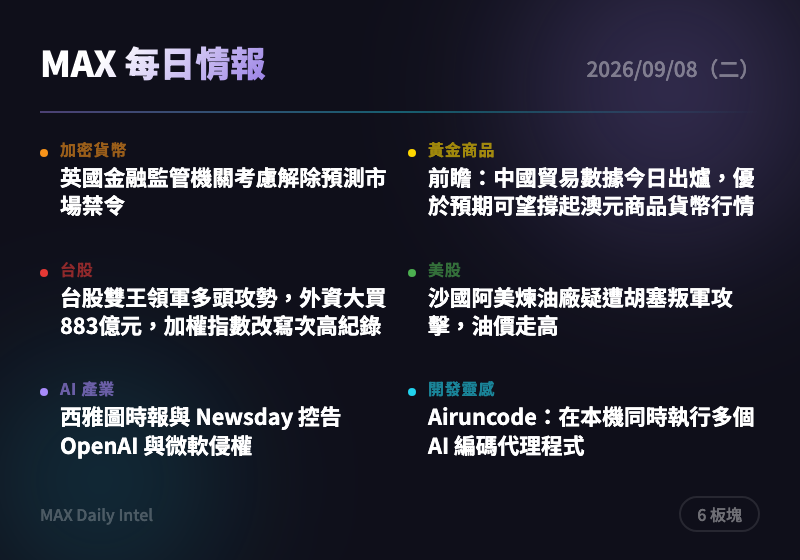
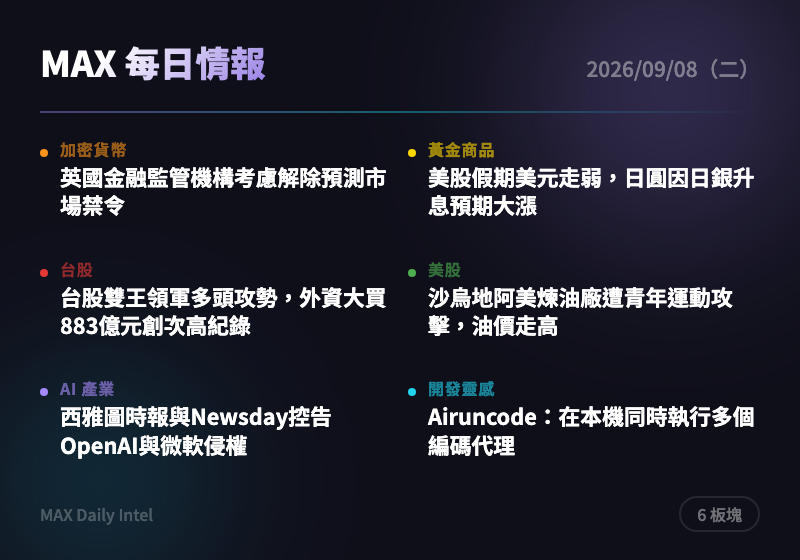
intel: 2026-09-08 每日情報自動生成

diff --git a/docs/2026-09-08.html b/docs/2026-09-08.html
@@ -318,15 +318,15 @@
     </div>
     <div class="news-card">
       <div class="source">CoinTelegraph</div>
-      <h3><a href="https://cointelegraph.com/news/uk-financial-watchdog-prediction-markets-ban?utm_source=rss_feed&utm_medium=rss&utm_campaign=rss_partner_inbound" target="_blank" rel="noopener">英國金融監管機關考慮解除預測市場禁令</a></h3>
-      <div class="summary">英國 FCA 正評估解除自 2019 年起針對零售投資人二元期權類預測市場產品的銷售禁令。若成真將為英國市場開放新型金融衍生商品通路，對相關平台業者是政策面利多，但也可能引發散戶保護爭議。建議關注 FCA 正式公告時程及後續配套監管細則。</div>
-      <div class="tags"><span class="tag">監管政策</span><span class="tag">英國</span><span class="tag">預測市場</span></div>
+      <h3><a href="https://cointelegraph.com/news/uk-financial-watchdog-prediction-markets-ban?utm_source=rss_feed&utm_medium=rss&utm_campaign=rss_partner_inbound" target="_blank" rel="noopener">英國金融監管機構考慮解除預測市場禁令</a></h3>
+      <div class="summary">英國金融行為監管局（FCA）自2019年起禁止散戶交易二元期權類產品，如今傳出考慮鬆綁預測市場相關限制。此舉若成真將為英國散戶開啟新的另類投資管道，也可能帶動相關平台估值重估。建議留意後續正式公告與監管細則。</div>
+      <div class="tags"><span class="tag">監管</span><span class="tag">英國</span><span class="tag">預測市場</span><span class="tag">金融政策</span></div>
     </div>
     <div class="news-card">
       <div class="source">CoinTelegraph</div>
-      <h3><a href="https://cointelegraph.com/news/ethereum-foundation-names-2-must-ship-eips-for-hegot-upgrade?utm_source=rss_feed&utm_medium=rss&utm_campaign=rss_partner_inbound" target="_blank" rel="noopener">以太坊基金會鎖定 Hegotá 升級兩項「必上」EIP</a></h3>
-      <div class="summary">以太坊基金會宣布 Hegotá 升級將以 FOCIL 與 Frame Transactions 兩項提案為核心，開發者仍在權衡數十項候選改動是否納入。此舉攸關以太坊抗審查能力與交易架構的長期路線圖，是判斷 ETH 基本面演進速度的重要指標。可留意後續開發者會議是否鎖定升級時程，作為布局 ETH 相關部位的參考。</div>
-      <div class="tags"><span class="tag">以太坊</span><span class="tag">區塊鏈升級</span><span class="tag">去中心化</span></div>
+      <h3><a href="https://cointelegraph.com/news/ethereum-foundation-names-2-must-ship-eips-for-hegot-upgrade?utm_source=rss_feed&utm_medium=rss&utm_campaign=rss_partner_inbound" target="_blank" rel="noopener">以太坊基金會敲定 Hegotá 升級兩項『必上』EIP</a></h3>
+      <div class="summary">以太坊基金會確認 FOCIL 與 Frame Transactions 為 Hegotá 升級的兩大核心提案，其餘數十項提案仍在討論是否納入。這決定了以太坊下一階段的技術路線與去中心化程度，牽動長期基本面。建議關注升級時程與相關 L2、驗證者生態的資金布局機會。</div>
+      <div class="tags"><span class="tag">以太坊</span><span class="tag">區塊鏈升級</span><span class="tag">加密貨幣</span><span class="tag">技術路線</span></div>
     </div>
   </section>
 
@@ -338,15 +338,15 @@
     </div>
     <div class="news-card">
       <div class="source">ForexLive</div>
-      <h3><a href="https://investinglive.com/news/preview-china-trade-data-due-today-a-beat-could-firm-up-aud-as-a-demand-proxy-trade/" target="_blank" rel="noopener">前瞻：中國貿易數據今日出爐，優於預期可望撐起澳元商品貨幣行情</a></h3>
-      <div class="summary">市場關注中國出口與進口數據，若出口優於預期，顯示中國持續依賴外需支撐放緩的內需經濟，並讓貿易緊張議題再受矚目；若進口同步走強，則更能反映內需回溫而非單純轉口貿易，對澳元等商品貨幣的支撐力道更強。可作為判斷商品貨幣及黃金避險/工業需求平衡的短線指標。</div>
-      <div class="tags"><span class="tag">中國經濟</span><span class="tag">貿易數據</span><span class="tag">澳元</span></div>
+      <h3><a href="https://investinglive.com/news/investinglive-americas-fx-news-wrap-7-sept-usd-falls-as-the-yen-surges-on-boj-rate-hike-expectations/" target="_blank" rel="noopener">美股假期美元走弱，日圓因日銀升息預期大漲</a></h3>
+      <div class="summary">美元因市場預期日本央行升息而走弱，日圓大幅升值，同時原油測試93.50美元關鍵阻力、倫敦金屬交易所銅價創新高。這反映全球利率預期與商品需求正同步升溫，對黃金的機會成本與避險吸引力都有影響。建議關注日銀利率決議時程，並留意商品全面走強對通膨與央行政策路徑的連動影響。</div>
+      <div class="tags"><span class="tag">日圓</span><span class="tag">美元</span><span class="tag">央行</span><span class="tag">商品市場</span></div>
     </div>
     <div class="news-card">
       <div class="source">ForexLive</div>
-      <h3><a href="https://investinglive.com/news/saudi-aramco-facility-attacked-again-extent-of-the-damage-still-being-assessed/" target="_blank" rel="noopener">沙烏地阿美吉贊煉油設施再遭攻擊，損害程度待評估</a></h3>
-      <div class="summary">沙烏地阿美位於吉贊的石油設施週一再度遭受攻擊，規模與上月相似，供應風險再度升溫。中東地緣政治風險反覆牽動原油與黃金避險需求，若損害擴大恐推升油價並強化黃金的避險吸引力。建議留意後續損害評估報告及荷姆茲海峽相關航運風險發展。</div>
-      <div class="tags"><span class="tag">地緣政治</span><span class="tag">原油</span><span class="tag">中東</span></div>
+      <h3><a href="https://investinglive.com/news/saudi-aramco-facility-attacked-again-extent-of-the-damage-still-being-assessed/" target="_blank" rel="noopener">沙烏地阿美設施再遭襲擊，損害程度待評估</a></h3>
+      <div class="summary">沙烏地阿美位於吉贊的煉油設施週一遭到新一輪襲擊，市場擔憂沙國原油供應風險再度升高。此類地緣政治衝擊往往推升油價並帶動避險買盤湧入黃金，是短線波動的重要變數。建議留意後續損害評估報告與OPEC+動向，作為原油與黃金部位的加減碼參考。</div>
+      <div class="tags"><span class="tag">地緣政治</span><span class="tag">原油</span><span class="tag">黃金</span><span class="tag">中東</span></div>
     </div>
   </section>
 
@@ -358,15 +358,15 @@
     </div>
     <div class="news-card">
       <div class="source">經濟日報</div>
-      <h3><a href="https://money.udn.com/money/story/5607/9740333" target="_blank" rel="noopener">台股雙王領軍多頭攻勢，外資大買883億元，加權指數改寫次高紀錄</a></h3>
-      <div class="summary">台積電與信驊強勢上攻，帶動外資單日大買883億元、三大法人合計買超逾千億元，加權指數大漲775點收47,326點，創史上收盤次高。法人樂觀情境下不排除9月挑戰5萬點大關，顯示多頭氣勢仍強。可留意權值股類股輪動及外資資金持續性作為進場時機參考。</div>
-      <div class="tags"><span class="tag">台股</span><span class="tag">外資動向</span><span class="tag">台積電</span></div>
+      <h3><a href="https://money.udn.com/money/story/5607/9740333" target="_blank" rel="noopener">台股雙王領軍多頭攻勢，外資大買883億元創次高紀錄</a></h3>
+      <div class="summary">台積電與信驊強勢上漲帶領台股大漲775點收47,326點，外資單日買超883億元，三大法人合計超千億元，創下歷史次高收盤紀錄。法人樂觀看待台股挑戰歷史新高甚至5萬點的可能性，顯示資金動能與權值股表現高度連動。建議留意台積電、信驊等權值股後續籌碼動向，作為觀察多頭是否延續的指標。</div>
+      <div class="tags"><span class="tag">台股</span><span class="tag">外資</span><span class="tag">台積電</span><span class="tag">權值股</span></div>
     </div>
     <div class="news-card">
       <div class="source">經濟日報</div>
-      <h3><a href="https://money.udn.com/money/story/5607/9740344" target="_blank" rel="noopener">瑞銀急轉彎降評大立光為「賣出」，目標價維持5,000元</a></h3>
-      <div class="summary">瑞銀證券雖仍看好大立光跨足共同封裝光學（CPO）新事業的長期前景，但認為市場已過度反映樂觀預期，因此將評等由「買進」大幅降至「賣出」，目標價維持不變。外資評等急轉彎恐引發股價短線波動，投資人宜留意評等調整後的市場反應及大立光後續財報表現。</div>
-      <div class="tags"><span class="tag">台股</span><span class="tag">外資評等</span><span class="tag">光學股</span></div>
+      <h3><a href="https://money.udn.com/money/story/5607/9740344" target="_blank" rel="noopener">瑞銀降評大立光至『賣出』，目標價維持5,000元</a></h3>
+      <div class="summary">瑞銀證券雖看好大立光佈局共同封裝光學（CPO）新事業的長期前景，但認為市場定價已過度反映樂觀預期，因此將評等由「買進」直接降至「賣出」。這是外資對高基期股票估值風險的明確警示，可能引發部分獲利回吐賣壓。建議持有大立光的投資人留意評等調整後的股價反應，並評估是否鎖定部分獲利。</div>
+      <div class="tags"><span class="tag">台股</span><span class="tag">外資評等</span><span class="tag">半導體</span><span class="tag">光學</span></div>
     </div>
   </section>
 
@@ -378,15 +378,15 @@
     </div>
     <div class="news-card">
       <div class="source">MarketWatch</div>
-      <h3><a href="https://www.marketwatch.com/story/oil-prices-hit-near-seven-week-highs-before-edging-lower-as-iran-plans-to-increase-control-of-hormuz-5070167c?mod=mw_rss_topstories" target="_blank" rel="noopener">沙國阿美煉油廠疑遭胡塞叛軍攻擊，油價走高</a></h3>
-      <div class="summary">西德州中級原油（WTI）與布蘭特原油期貨一度衝上近七週高點，因傳出沙烏地阿美煉油設施遭胡塞叛軍攻擊。中東供應風險持續為油價提供上行動能，能源類股及通膨預期恐受牽動。建議關注後續衝突是否升級及對美國通膨數據解讀的連動效應。</div>
-      <div class="tags"><span class="tag">原油</span><span class="tag">地緣政治</span><span class="tag">能源</span></div>
+      <h3><a href="https://www.marketwatch.com/story/oil-prices-hit-near-seven-week-highs-before-edging-lower-as-iran-plans-to-increase-control-of-hormuz-5070167c?mod=mw_rss_topstories" target="_blank" rel="noopener">沙烏地阿美煉油廠遭青年運動攻擊，油價走高</a></h3>
+      <div class="summary">有報導指出沙烏地阿美煉油設施遭青年運動（Houthi）襲擊，WTI與布蘭特原油先前一度漲至近七週高點。油價上漲若持續將推升通膨壓力，並可能影響聯準會利率決策路徑。建議留意能源股與通膨敏感類股的短線表現。</div>
+      <div class="tags"><span class="tag">原油</span><span class="tag">地緣政治</span><span class="tag">通膨</span><span class="tag">美股</span></div>
     </div>
     <div class="news-card">
       <div class="source">WSJ Markets</div>
-      <h3><a href="https://www.wsj.com/business/deals/everbank-to-combine-with-wafd-to-create-75-billion-bank-e71d023c?mod=rss_markets_main" target="_blank" rel="noopener">EverBank 與 WaFd 合併，將打造750億美元銀行</a></h3>
-      <div class="summary">總部位於佛羅里達的 EverBank Financial 與規模較小、位於美國西北部的 WaFd 達成協議，將透過反向合併方式整合，合併後資產規模達750億美元。銀行業整併潮延續，反映區域銀行在利率環境與競爭壓力下尋求規模經濟。可觀察此案是否引發同業跟進整併，以及對區域銀行股評價的連鎖效應。</div>
-      <div class="tags"><span class="tag">銀行併購</span><span class="tag">美股</span><span class="tag">區域銀行</span></div>
+      <h3><a href="https://www.wsj.com/business/deals/everbank-to-combine-with-wafd-to-create-75-billion-bank-e71d023c?mod=rss_markets_main" target="_blank" rel="noopener">EverBank 與 WaFd 合併，打造750億美元銀行</a></h3>
+      <div class="summary">佛羅里達州的EverBank Financial已達成協議，將以反向併購方式與規模較小的太平洋西北地區銀行WaFd合併。此案反映區域銀行業整併趨勢延續，透過規模擴大以應對利率環境與競爭壓力。建議關注區域銀行股後續是否出現更多整併案，作為板塊輪動觀察指標。</div>
+      <div class="tags"><span class="tag">銀行併購</span><span class="tag">美股</span><span class="tag">區域銀行</span><span class="tag">金融業</span></div>
     </div>
   </section>
 
@@ -398,15 +398,15 @@
     </div>
     <div class="news-card">
       <div class="source">The Verge AI</div>
-      <h3><a href="https://www.theverge.com/ai-artificial-intelligence/990932/seattle-times-newsday-lawsuit-openai-microsoft" target="_blank" rel="noopener">西雅圖時報與 Newsday 控告 OpenAI 與微軟侵權</a></h3>
-      <div class="summary">西雅圖時報與 Newsday 加入對 OpenAI 提告的媒體行列，指控其未經授權使用新聞報導作為 AI 模型訓練資料，且模型回應時常直接重現報導段落。此案延續一系列媒體對 AI 公司的著作權訴訟浪潮，可能影響 AI 公司訓練資料取得成本與授權模式。建議關注此類訴訟對 OpenAI 授權談判策略的影響。</div>
-      <div class="tags"><span class="tag">AI</span><span class="tag">著作權訴訟</span><span class="tag">OpenAI</span></div>
+      <h3><a href="https://www.theverge.com/ai-artificial-intelligence/990932/seattle-times-newsday-lawsuit-openai-microsoft" target="_blank" rel="noopener">西雅圖時報與Newsday控告OpenAI與微軟侵權</a></h3>
+      <div class="summary">西雅圖時報與Newsday成為最新一批對OpenAI提出版權侵權訴訟的媒體，指控其新聞報導未經授權被用作AI模型訓練資料，且模型回應時常直接重現報導段落。此案延續媒體業對AI公司訓練資料合法性的集體訴訟趨勢，可能影響OpenAI未來授權成本與資料取得策略。建議關注此類訴訟對AI公司內容授權支出與商業模式的長期影響。</div>
+      <div class="tags"><span class="tag">AI</span><span class="tag">版權訴訟</span><span class="tag">OpenAI</span><span class="tag">媒體業</span></div>
     </div>
     <div class="news-card">
       <div class="source">TechCrunch AI</div>
-      <h3><a href="https://techcrunch.com/2026/09/06/authors-push-back-as-publishers-and-agents-seek-share-of-anthropic-settlement/" target="_blank" rel="noopener">作者反擊出版商與經紀人爭搶 Anthropic 和解金</a></h3>
-      <div class="summary">作者指控出版商與經紀人在 Anthropic 著作權和解案中，似乎意圖分得超過應有比例的賠償金。此爭議凸顯 AI 訓練資料著作權和解在利益分配上的複雜性，可能影響未來類似和解案的分配機制設計。可留意此爭議是否影響 Anthropic 和解金發放時程與後續談判先例。</div>
-      <div class="tags"><span class="tag">AI</span><span class="tag">Anthropic (安索羅培)</span><span class="tag">著作權和解</span></div>
+      <h3><a href="https://techcrunch.com/2026/09/06/authors-push-back-as-publishers-and-agents-seek-share-of-anthropic-settlement/" target="_blank" rel="noopener">作者反彈：出版商與經紀人在Anthropic和解金中分得過多</a></h3>
+      <div class="summary">作者團體對Anthropic版權和解案的分配方式提出異議，認為出版商與經紀人在和解金分配中拿走了不成比例的份額。此爭議凸顯AI訓練資料版權和解機制在利益分配上的複雜性與潛在法律風險。建議關注此案後續進展，作為評估AI公司訓練資料授權成本的參考指標。</div>
+      <div class="tags"><span class="tag">AI</span><span class="tag">版權和解</span><span class="tag">Anthropic</span><span class="tag">出版業</span></div>
     </div>
   </section>
 
@@ -418,15 +418,15 @@
     </div>
     <div class="news-card">
       <div class="source">Product Hunt</div>
-      <h3><a href="https://www.producthunt.com/products/airuncode" target="_blank" rel="noopener">Airuncode：在本機同時執行多個 AI 編碼代理程式</a></h3>
-      <div class="summary">Airuncode 是 Product Hunt 新上架產品，主打讓開發者能在自己的機器上同時運行多個本地程式碼 AI 代理。此類工具反映開發圈對多代理並行編碼（multi-agent coding）工作流程需求上升，可能提升複雜專案的開發效率。可關注其與現有 AI 編碼工具（如 Claude Code、Cursor）的整合或競爭關係。</div>
-      <div class="tags"><span class="tag">開發工具</span><span class="tag">AI代理</span><span class="tag">本地化AI</span></div>
+      <h3><a href="https://www.producthunt.com/products/airuncode" target="_blank" rel="noopener">Airuncode：在本機同時執行多個編碼代理</a></h3>
+      <div class="summary">Airuncode是一款可在本機同時運行多個AI編碼代理的新工具，反映開發者對多代理並行編程工作流的需求持續上升。此類工具若普及，將加速AI輔助開發從單一助手轉向多代理協作模式。建議關注此類本機多代理工具是否能提升團隊開發效率並降低雲端運算成本。</div>
+      <div class="tags"><span class="tag">開發工具</span><span class="tag">AI代理</span><span class="tag">編程</span><span class="tag">生產力</span></div>
     </div>
     <div class="news-card">
       <div class="source">Hacker News Best</div>
-      <h3><a href="https://bcantrill.dtrace.org/2025/12/05/your-intellectual-fly-is-open/" target="_blank" rel="noopener">用 LLM 寫文章，就像拉鍊沒拉好一樣顯眼（2025年舊文）</a></h3>
-      <div class="summary">這篇 Hacker News 熱門文章（705 讚、431 則留言）主張用 LLM 生成文字創作時，其風格特徵對讀者而言如同「拉鍊沒拉」般顯眼且尷尬。文章引發社群對 AI 輔助寫作倫理與可辨識性的廣泛討論，反映開發者與內容創作者社群對 AI 生成內容識別度議題的高度關注。適合作為團隊內部討論 AI 輔助內容發布規範的參考素材。</div>
-      <div class="tags"><span class="tag">AI寫作</span><span class="tag">開發者社群</span><span class="tag">內容倫理</span></div>
+      <h3><a href="https://bcantrill.dtrace.org/2025/12/05/your-intellectual-fly-is-open/" target="_blank" rel="noopener">當你用LLM寫文章時，你的『智識拉鍊』開著</a></h3>
+      <div class="summary">這篇2025年的文章（在Hacker News上獲705點高度關注）批評使用LLM代寫文章會讓寫作者的思考缺陷「暴露無遺」，引發社群對AI輔助寫作品質與真實性的廣泛討論。此類反思文章反映開發者與知識工作者社群對AI生成內容濫用的疑慮日增。建議關注這類討論趨勢，評估團隊內部使用AI輔助寫作的規範與品質把關方式。</div>
+      <div class="tags"><span class="tag">AI寫作</span><span class="tag">科技評論</span><span class="tag">社群討論</span><span class="tag">LLM</span></div>
     </div>
   </section>
 

diff --git a/docs/cards/2026-09-08-card.html b/docs/cards/2026-09-08-card.html
@@ -23,11 +23,11 @@ body{width:400px;height:280px;font-family:'Noto Sans TC',-apple-system,sans-seri
 <div class="content">
 <div class="top-row"><span class="title">MAX 每日情報</span><span class="date">2026/09/08（二）</span></div>
 <div class="divider"></div>
-<div class="grid"><div class="cell"><div class="dot" style="background:#f7931a"></div><div><div class="label" style="color:#f7931a">加密貨幣</div><div class="headline">英國金融監管機關考慮解除預測市場禁令</div></div></div>
-<div class="cell"><div class="dot" style="background:#ffd700"></div><div><div class="label" style="color:#ffd700">黃金商品</div><div class="headline">前瞻：中國貿易數據今日出爐，優於預期可望撐起澳元商品貨幣行情</div></div></div>
-<div class="cell"><div class="dot" style="background:#e53935"></div><div><div class="label" style="color:#e53935">台股</div><div class="headline">台股雙王領軍多頭攻勢，外資大買883億元，加權指數改寫次高紀錄</div></div></div>
-<div class="cell"><div class="dot" style="background:#4caf50"></div><div><div class="label" style="color:#4caf50">美股</div><div class="headline">沙國阿美煉油廠疑遭胡塞叛軍攻擊，油價走高</div></div></div>
-<div class="cell"><div class="dot" style="background:#a78bfa"></div><div><div class="label" style="color:#a78bfa">AI 產業</div><div class="headline">西雅圖時報與 Newsday 控告 OpenAI 與微軟侵權</div></div></div>
-<div class="cell"><div class="dot" style="background:#22d3ee"></div><div><div class="label" style="color:#22d3ee">開發靈感</div><div class="headline">Airuncode：在本機同時執行多個 AI 編碼代理程式</div></div></div></div>
+<div class="grid"><div class="cell"><div class="dot" style="background:#f7931a"></div><div><div class="label" style="color:#f7931a">加密貨幣</div><div class="headline">英國金融監管機構考慮解除預測市場禁令</div></div></div>
+<div class="cell"><div class="dot" style="background:#ffd700"></div><div><div class="label" style="color:#ffd700">黃金商品</div><div class="headline">美股假期美元走弱，日圓因日銀升息預期大漲</div></div></div>
+<div class="cell"><div class="dot" style="background:#e53935"></div><div><div class="label" style="color:#e53935">台股</div><div class="headline">台股雙王領軍多頭攻勢，外資大買883億元創次高紀錄</div></div></div>
+<div class="cell"><div class="dot" style="background:#4caf50"></div><div><div class="label" style="color:#4caf50">美股</div><div class="headline">沙烏地阿美煉油廠遭青年運動攻擊，油價走高</div></div></div>
+<div class="cell"><div class="dot" style="background:#a78bfa"></div><div><div class="label" style="color:#a78bfa">AI 產業</div><div class="headline">西雅圖時報與Newsday控告OpenAI與微軟侵權</div></div></div>
+<div class="cell"><div class="dot" style="background:#22d3ee"></div><div><div class="label" style="color:#22d3ee">開發靈感</div><div class="headline">Airuncode：在本機同時執行多個編碼代理</div></div></div></div>
 <div class="bottom-row"><span class="url">MAX Daily Intel</span><span class="badge">6 板塊</span></div>
 </div></body></html>
